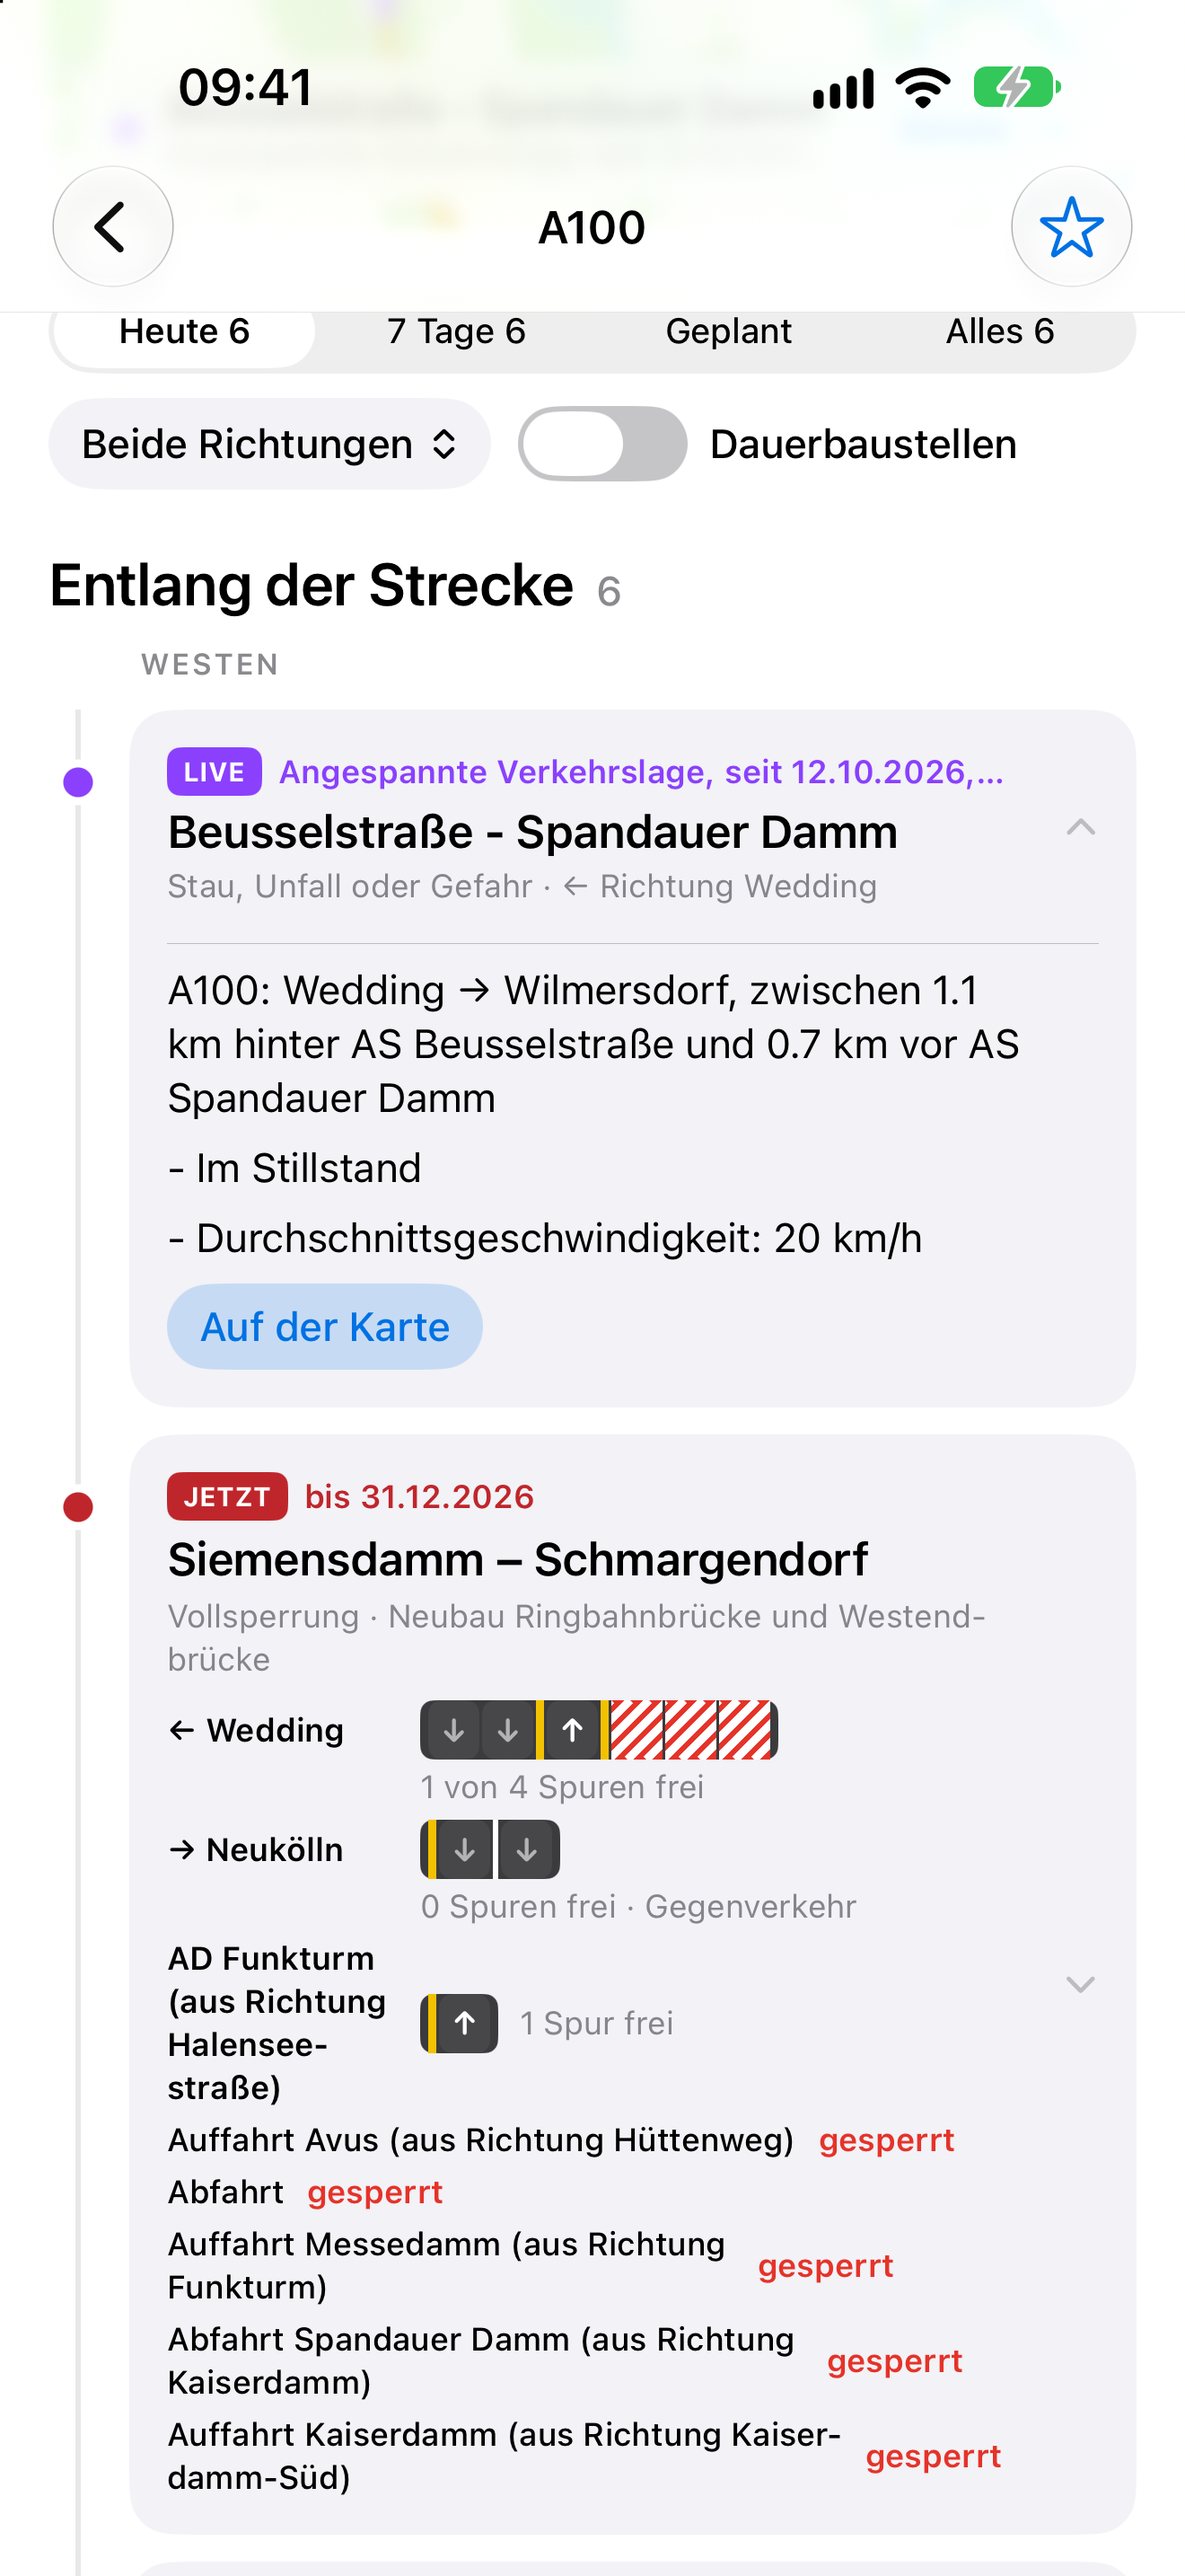
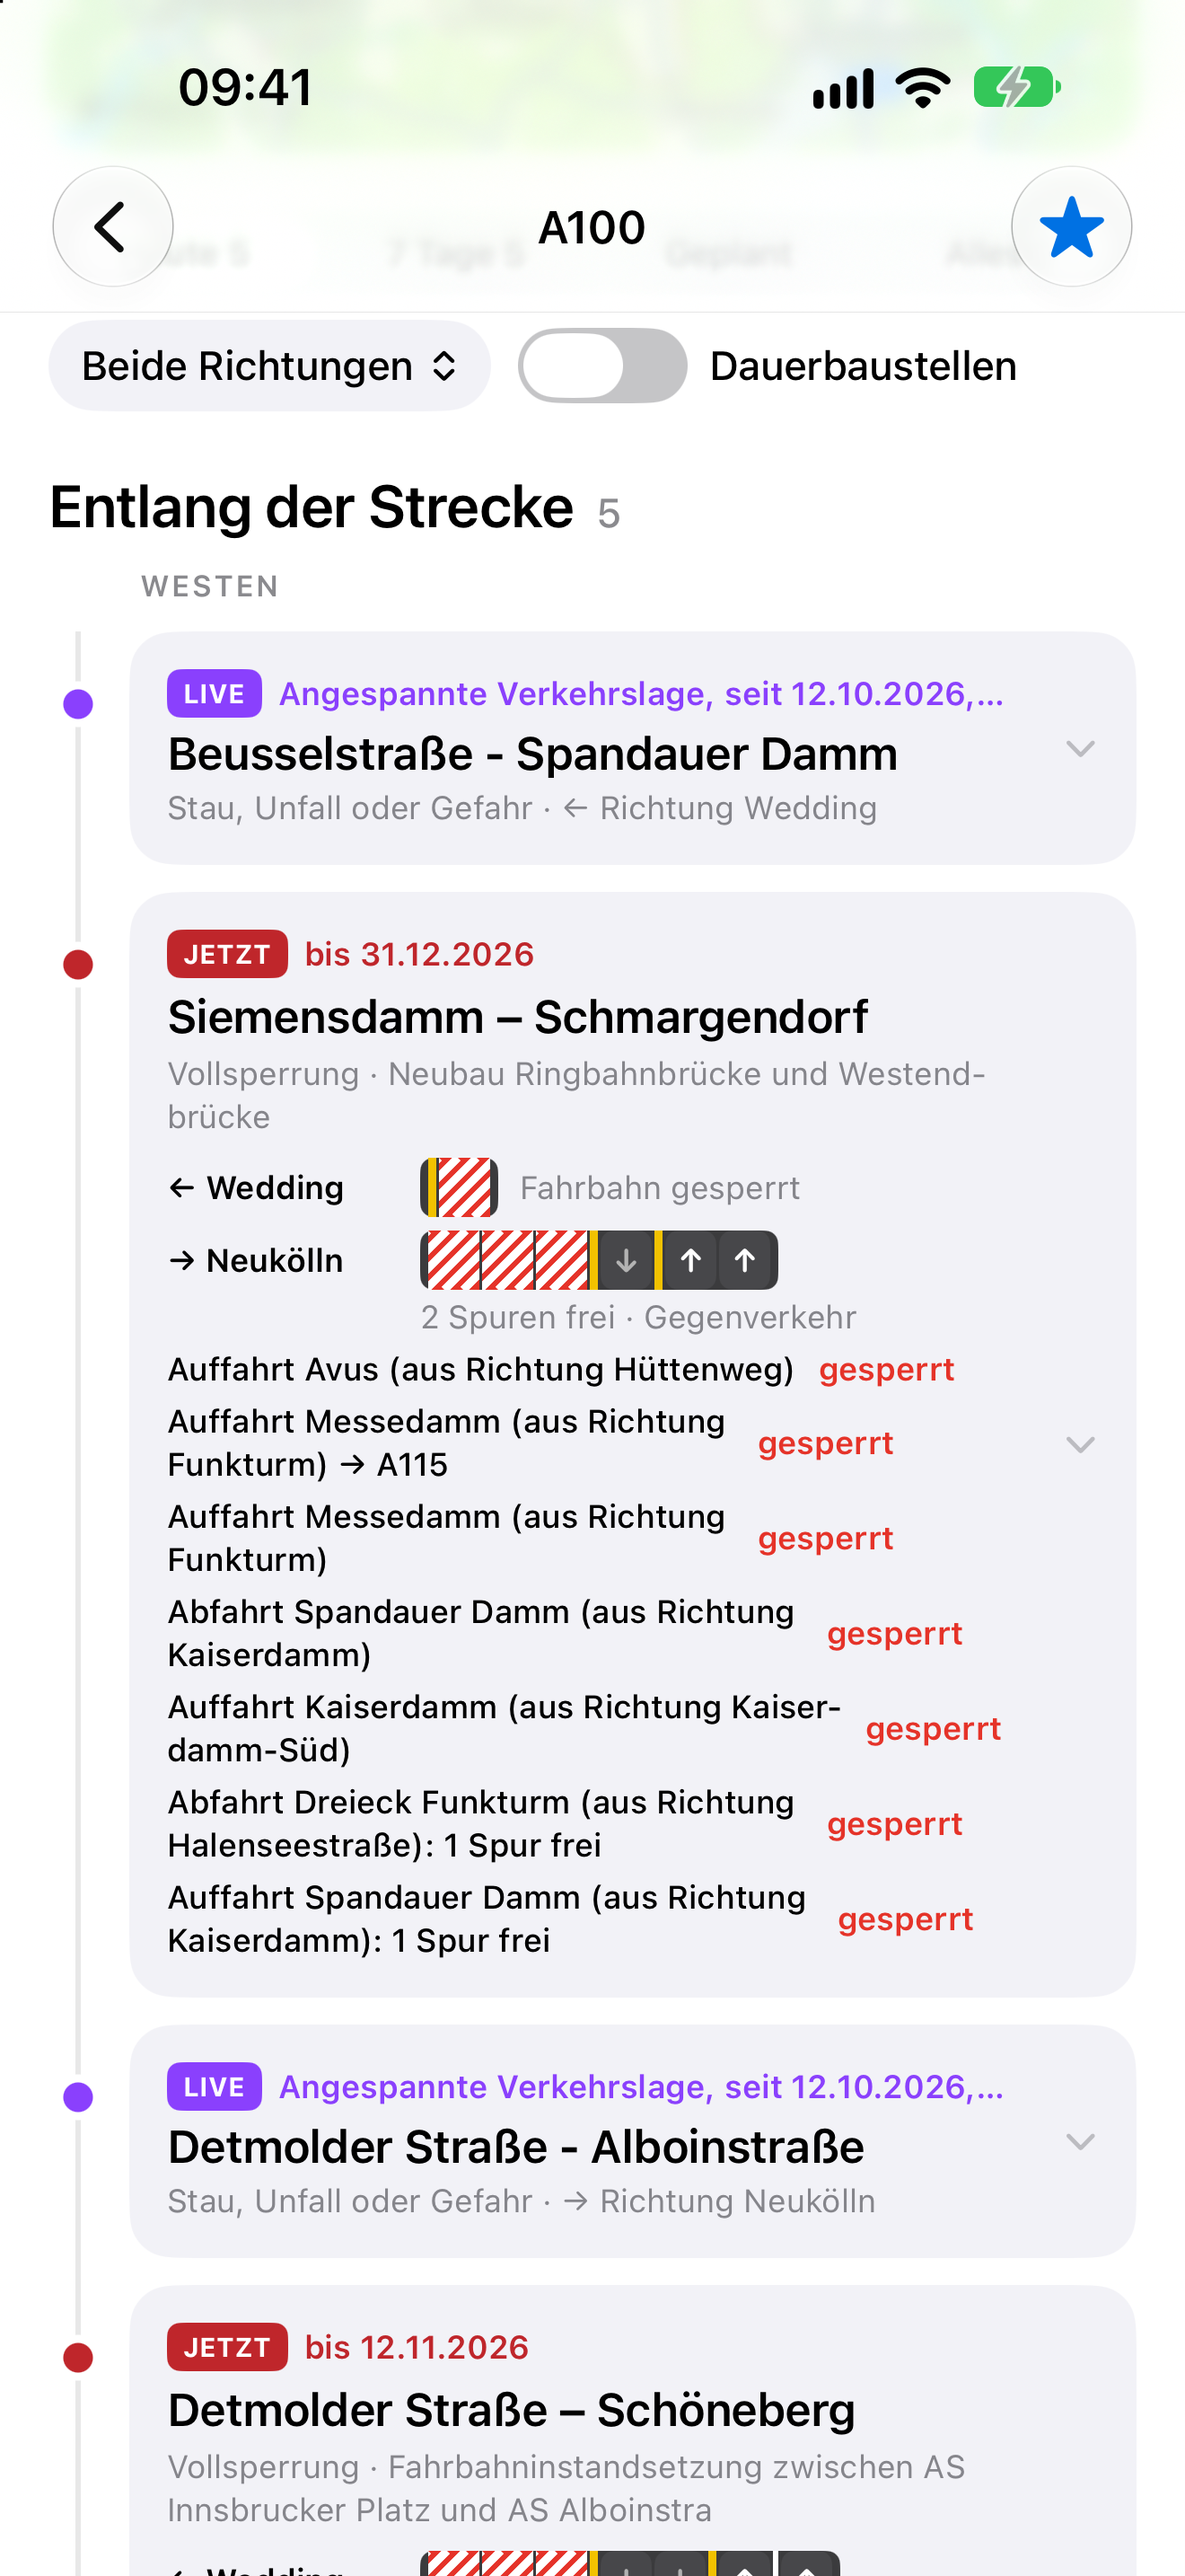
Rampen mit freier Spur nicht mehr als gesperrt anzeigen

diff --git a/ios/Stauklar/UI/RoadView.swift b/ios/Stauklar/UI/RoadView.swift
@@ -668,9 +668,14 @@ struct GroupRow: View {
                                     }
                                 }
                                 ForEach(group.ramps, id: \.self) { r in
-                                    HStack(spacing: 8) {
-                                        Text(r.replacingOccurrences(of: " gesperrt", with: "")).font(.caption.weight(.medium))
-                                        Text("gesperrt").font(.caption.weight(.semibold)).foregroundStyle(Theme.color(.sperr))
+                                    // „Auffahrt X gesperrt“ → rot; „Abfahrt Y: 1 Spur frei“ → neutral
+                                    if r.hasSuffix(" gesperrt") {
+                                        HStack(spacing: 8) {
+                                            Text(String(r.dropLast(9))).font(.caption.weight(.medium))
+                                            Text("gesperrt").font(.caption.weight(.semibold)).foregroundStyle(Theme.color(.sperr))
+                                        }
+                                    } else {
+                                        Text(r).font(.caption.weight(.medium)).foregroundStyle(.secondary)
                                     }
                                 }
                             }

diff --git a/build.py b/build.py
@@ -608,7 +608,11 @@ def stop(g, labels):
         txt = e(d["laneText"]) if d["laneText"] else ("gesperrt" if g["sev"] == "voll" else "Baustelle")
         lines.append(f'<span class="dirline"><span class="dl">{name}</span>{graphic}<span class="dt">{txt}</span></span>')
     for r in g["ramps"]:
-        lines.append(f'<span class="dirline ramp"><span class="dl">{e(r.replace(" gesperrt", ""))}</span><span class="dt closed">gesperrt</span></span>')
+        if r.endswith(" gesperrt"):
+            lines.append(f'<span class="dirline ramp"><span class="dl">{e(r[:-9])}</span><span class="dt closed">gesperrt</span></span>')
+        else:
+            name, _, rest = r.partition(": ")
+            lines.append(f'<span class="dirline ramp"><span class="dl">{e(name)}</span><span class="dt">{e(rest or "eingeschränkt")}</span></span>')
     rows = [("Zeitraum", fwin(g["show"]))]
     if g["upcoming"] > 1:
         rows.append(("Weitere Termine", f"{g['upcoming'] - 1} weitere"))
